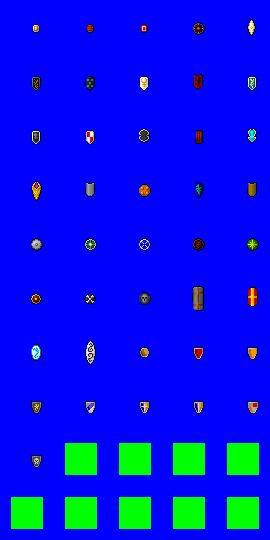
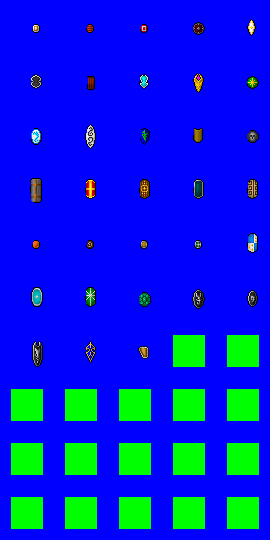
More work done on the story generator

diff --git a/narrator/intros.py b/narrator/intros.py
@@ -1,5 +1,5 @@
 
-from plots import Plot,PlotError
+from plots import Plot,PlotError,Chapter
 import context
 import items
 import maps
@@ -10,45 +10,66 @@ import dialogue
 import services
 import teams
 import characters
+import namegen
 
 """ The INTRO is divided into two parts. INTRO_1 sets the setting and maybe
     also changes the Propp state. INTRO_2 is the branch to the first chapter;
     it may further alter the story state, and is responsible for setting up the
     starting city + campaign entrance position via the LOCALE subplot.
 
+    The INTRO creates the first chapter.
+
     The INTRO creates both the LOCALE and the COMPLICATION.
 """
 
-class LightOfTheMacguffin( Plot ):
+class OurFineCity( Plot ):
+    """After an age of war, this city is looking up."""
     LABEL = "INTRO_1"
-    propp = context.PROPP_INTERDICTION
+    propp = context.PROPP_ABSENTATION
     setting = context.SET_RENFAN
     active = True
     scope = True
+    do_message = True
     @classmethod
     def matches( self, pstate ):
         """Requires the setting to be None or RenFan."""
         if pstate.setting in (None,context.SET_RENFAN):
             return True
     def custom_init( self, nart ):
-        """Load *INTRO_2, create MACGUFFIN"""
-        self.register_element( "MACGUFFIN", items.choose_item() )
+        """Create the chapter + city, then load INTRO_2"""
+        self.chapter = Chapter()
+        self.add_first_locale_sub_plot( nart )
         self.add_sub_plot( nart, "INTRO_2", ident="next" )
         return True
+    def t_START( self, explo ):
+        if self.do_message:
+            city = self.elements["LOCALE"]
+            explo.alert( "After centuries of war and darkness, the great city of {0} has risen as a beacon of peace and enlightenment.".format( city.name ) )
+            self.subplots["next"].active = True
+            self.subplots["next"].t_START( explo )
+            self.do_message = False
 
-class OurMacguffinIsGone( Plot ):
+class BalrogMovesIntoTown( Plot ):
+    """The peace is shattered by a monster arriving."""
     LABEL = "INTRO_2"
+    propp = context.PROPP_VIOLATION
     scope = True
+    do_message = True
     @classmethod
     def matches( self, pstate ):
         """Requires the propp to be INTERDICTION, MACGUFFIN to exist."""
-        return pstate.propp == context.PROPP_INTERDICTION and pstate.elements.get( "MACGUFFIN" )
+        return pstate.propp in ( context.PROPP_NONE, context.PROPP_ABSENTATION )
     def custom_init( self, nart ):
-        sp = self.add_sub_plot( nart, "CITY_SCENE" )
-        if sp:
-            nart.camp.scene = sp.elements.get( "SCENE" )
-            nart.camp.entrance = sp.elements.get( "ENTRANCE" )
-            return True
+        # Create the monster, load the complication.
+        # Make sure a LOCALE exists; if not, create one.
+        if not nart.camp.scene:
+            self.add_first_locale_sub_plot( nart )
+        return True
+    def t_START( self, explo ):
+        if self.do_message:
+            city = self.elements["LOCALE"]
+            explo.alert( "Unfortunately, the arrival of a fearsome monster has shattered the peace. Now the people of {0} live in fear, waiting for a hero to deliver them from this terror.".format( city.name ) )
+            self.do_message = False
 
 class CityOnEdgeOfCiv( Plot ):
     LABEL = "CITY_SCENE"
@@ -63,7 +84,7 @@ class CityOnEdgeOfCiv( Plot ):
         myroom = mapgen.FuzzyRoom( tags=(context.ENTRANCE,), parent=castle )
         myteam = teams.Team( strength=0, default_reaction=characters.SAFELY_FRIENDLY)
         castle.contents.append( myteam )
-        myent = waypoints.Waypoint()
+        myent = waypoints.Well()
         myroom.contents.append( myent )
         myroom.contents.append( monsters.generate_npc(team=myteam) )
         myroom.contents.append( monsters.generate_npc(team=myteam) )

diff --git a/narrator/plots.py b/narrator/plots.py
@@ -1,8 +1,21 @@
 import context
+import namegen
+import random
 
 class PlotError( Exception ):
     """Plot init will call this if initialization impossible."""
     pass
+
+class Chapter( object ):
+    """ Contains basic information about this chapter."""
+    def __init__( self, num=1, start_rank=1, end_rank=5, follows=None ):
+        if follows:
+            num = follows.num + 1
+            start_rank = follows.end_rank
+            end_rank = start_rank + random.randint( 3,5 )
+        self.num = num
+        self.start_rank = start_rank
+        self.end_rank = end_rank
 
 class PlotState( object ):
     """For passing state information to subplots."""
@@ -60,7 +73,7 @@ class Plot( object ):
         # If failure, delete currently added subplots + raise error.
         if hasattr( self, "fail" ) or not allok:
             self.remove( nart )
-            raise PlotError
+            raise PlotError( str( self.__class__ ) )
 
     def get_element_idents( self, ele ):
         """Return list of element idents assigned to this object."""
@@ -77,6 +90,16 @@ class Plot( object ):
         else:
             self.subplots[ident] = sp
         return sp
+
+    def add_first_locale_sub_plot( self, nart ):
+        # Utility function for a frequently used special case.
+        sp = self.add_sub_plot( nart, "CITY_SCENE" )
+        if sp:
+            nart.camp.scene = sp.elements.get( "SCENE" )
+            self.register_element( "LOCALE", sp.elements.get( "SCENE" ) )
+            nart.camp.entrance = sp.elements.get( "ENTRANCE" )
+        return sp
+
 
     def move_element( self, ele, dest ):
         # Record when a plot places an element; if this plot is removed, the
@@ -96,6 +119,8 @@ class Plot( object ):
         return ele
 
     def register_scene( self, nart, myscene, mygen, ident=None, dident=None, rank=None ):
+        if not myscene.name:
+            myscene.name = namegen.DEFAULT.gen_word()
         self.register_element( ident, myscene, dident )
         nart.camp.scenes.append( myscene )
         self.move_records.append( (myscene,nart.camp.scenes) )
@@ -155,13 +180,17 @@ class Plot( object ):
 
     def get_dialogue_offers( self, npc ):
         """Get any dialogue offers this plot has for npc."""
-        ofrz = list()
+        ofrz = self.get_generic_offers( npc )
         npc_ids = self.get_element_idents( npc )
         for i in npc_ids:
             ogen = getattr( self, "{0}_offers".format(i), None )
             if ogen:
                 ofrz += ogen()
         return ofrz
+
+    def get_generic_offers( self, npc ):
+        """Get any offers that could apply to non-element NPCs."""
+        return list()
 
 
     @classmethod

diff --git a/items/shields.py b/items/shields.py
@@ -22,25 +22,25 @@ class RoundShield( Item ):
     true_name = "Round Shield"
     true_desc = ""
     itemtype = SHIELD
-    avatar_image = "avatar_shield.png"
+    avatar_image = "avatar_shield_round.png"
     avatar_frame = 0
     statline = stats.StatMod({ stats.PHYSICAL_DEFENSE: 10 })
     mass = 125
 
     def __init__( self ):
-        self.avatar_frame = random.choice( (17,20,21,22,23,25,26,20,20,32) )
+        self.avatar_frame = random.choice( (0,1,2,3,4,5,6,7) )
 
 class KiteShield( Item ):
     true_name = "Kite Shield"
     true_desc = ""
     itemtype = SHIELD
-    avatar_image = "avatar_shield.png"
+    avatar_image = "avatar_shield_kite.png"
     avatar_frame = 0
     statline = stats.StatMod({ stats.PHYSICAL_DEFENSE: 10 })
     mass = 110
 
     def __init__( self ):
-        self.avatar_frame = random.choice( (5,6,7,8,9,10,11,16, 33, 34, 35, 36, 37, 38, 39, 40) )
+        self.avatar_frame = random.choice( (0,1,2,3,4,5,6,7,8,9,10,11,12,13,14,15) )
 
 class TowerShield( Item ):
     true_name = "Tower Shield"
@@ -51,11 +51,14 @@ class TowerShield( Item ):
     statline = stats.StatMod({ stats.PHYSICAL_DEFENSE: 15 })
     mass = 215
 
-    DESC = { 28: "A very large steel shield.", \
-        29: "A very large red shield." }
+    DESC = { 15: "A very large steel shield.", \
+        16: "A very large red and gold shield.", 17: "A very large wooden shield with golden decorations.", \
+        18: "A very large dark green shield.", 19: "A very large shield with a spiral pattern.", \
+        24: "A very large blue and white quartered shield.", 25: "A very large sky blue shield.", \
+        26: "A very large green shield with a starburst design.", 30: "A very large and ornate steel shield."  }
 
     def __init__( self ):
-        self.avatar_frame = random.choice( (28,29) )
+        self.avatar_frame = random.choice( (15,16,17,18,19,24,25,26,30) )
         self.true_desc = self.DESC[ self.avatar_frame ]
 
 

diff --git a/maps.py b/maps.py
@@ -360,9 +360,10 @@ DEFAULT_SPRITES = { SPRITE_GROUND: "terrain_ground_forest.png", \
 class Scene( object ):
     DELTA8 = ( (-1,-1), (0,-1), (1,-1), (-1,0), (1,0), (-1,1), (0,1), (1,1) )
     def __init__(self,width=128,height=128,sprites=None,biome=None,setting=None,desctags=()):
+        self.name = ""
         self.width = width
         self.height = height
-        self.contents = container.ContainerList()
+        self.contents = container.ContainerList(owner=self)
         self.sprites = DEFAULT_SPRITES.copy()
         if sprites:
             self.sprites.update( sprites )
@@ -370,10 +371,17 @@ class Scene( object ):
         self.setting=setting
         self.desctags = desctags
         self.scripts = list()
+        self.parent_scene = None
         # Fill the map with empty tiles
         self.map = [[ Tile()
             for y in range(height) ]
                 for x in range(width) ]
+
+    def root_scene( self ):
+        rs = self
+        while rs.parent_scene:
+            rs = rs.parent_scene
+        return rs
 
     def on_the_map( self , x , y ):
         # Returns true if on the map, false otherwise

diff --git a/narrator/complication.py b/narrator/complication.py
@@ -1,0 +1,34 @@
+from plots import Plot,PlotError,PlotState
+import context
+import items
+import maps
+import mapgen
+import waypoints
+import monsters
+import dialogue
+import services
+import teams
+import characters
+import namegen
+
+""" The complication is the main part of the chapter, taking the setup from the
+    INTRO and leading into the difficulties separating the pcs from the
+    conclusion.
+"""
+
+class CaveDungeon( Plot ):
+    LABEL = "COMPLICATION"
+    active = True
+    scope = True
+    def custom_init( self, nart ):
+        """Load dungeon levels, dungeon entrance, CONCLUSION."""
+        self.levels = list()
+        pstate = PlotState( rank = self.chapter.start_rank, elements={"DUNGEON_TYPE":context.HAB_CAVE} ).based_on( self )
+        for l in range( self.chapter.start_rank, self.chapter.end_rank+1 ):
+            sp = self.add_sub_plot( nart, "DUNGEON_LEVEL", pstate )
+            if sp:
+                pstate = PlotState( rank = l ).based_on( sp )
+
+
+        return True
+

diff --git a/waypoints.py b/waypoints.py
@@ -18,7 +18,7 @@ class Waypoint( object ):
         """Place this waypoint in a scene."""
         if scene:
             self.place( scene, pos )
-        self.contents = container.ContainerList()
+        self.contents = container.ContainerList(owner=self)
 
     def place( self, scene, pos=None ):
         if hasattr( self, "container" ) and self.container:
@@ -164,4 +164,6 @@ class LargeChest( SmallChest ):
     ALT_DECOR = maps.LARGE_CHEST_OPEN
     HOARD_AMOUNT = 200
 
+class Well( Waypoint ):
+    TILE = maps.Tile( None, None, maps.WELL )
 

diff --git a/namegen.py b/namegen.py
@@ -77,7 +77,7 @@ class NameGen:
 		else:
 			self.forbidden = _load_sample(forbidden_file)
 	
-	def gen_word(self, no_repeat = False):
+	def gen_word(self, no_repeat = True):
 		#random number of syllables, the last one is always appended
 		num_syl = random.randint(self.min_syl, self.max_syl - 1)
 		
@@ -187,7 +187,7 @@ if __name__=="__main__":
 #    test_names( ELDRITCH, 100000 )
 
     for t in range( 100 ):
-        print ELDRITCH.gen_word()
+        print JAPANESE.gen_word()
 
 
 #    print "Dragon"

diff --git a/mapgen.py b/mapgen.py
@@ -291,7 +291,7 @@ class Room( object ):
         self.tags = tags
         self.anchor = anchor
         self.area = None
-        self.contents = container.ContainerList()
+        self.contents = container.ContainerList(owner=self)
         # special_c lists contents that will be treated specially by the generator.
         self.special_c = dict()
         if parent:

diff --git a/exploration.py b/exploration.py
@@ -593,6 +593,10 @@ class Explorer( object ):
         self.view( self.screen )
         pygame.display.flip()
 
+        # Do a start trigger, unless we're in combat.
+        if not self.camp.fight:
+            self.check_trigger( "START" )
+
         while self.keep_exploring():
             if self.camp.fight:
                 self.order = None

diff --git a/narrator/citystuff.py b/narrator/citystuff.py
@@ -269,7 +269,7 @@ class GenericWeaponShop( Plot ):
         self.register_element( "SHOPKEEPER", npc )
 
         self.shop = services.Shop( ware_types=services.WEAPON_STORE, rank=self.rank+2,
-         allow_misc=False, allow_magic=True, num_items=15 )
+         allow_misc=False, allow_magic=True, num_items=14 )
 
         return True
 

diff --git a/characters.py b/characters.py
@@ -422,7 +422,7 @@ class Character( stats.PhysicalThing ):
             self.hair = random.choice( species.HAIRSTYLE[gender] )
         else:
             self.hair = -1
-        self.contents = items.Backpack()
+        self.contents = items.Backpack(owner=self)
         self.xp = 0
         self.beard = 0
         self.hp_damage = 0

diff --git a/narrator/__init__.py b/narrator/__init__.py
@@ -55,9 +55,11 @@ def harvest( mod ):
             PLOT_LIST[ o.LABEL ].append( o )
 
 import citystuff
+import complication
 import encounters
 import intros
 harvest( citystuff )
+harvest( complication )
 harvest( encounters )
 harvest( intros )
 
